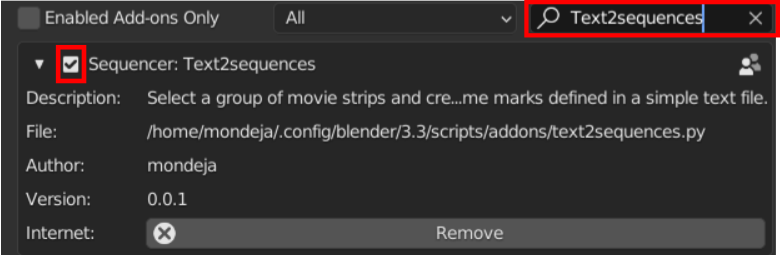
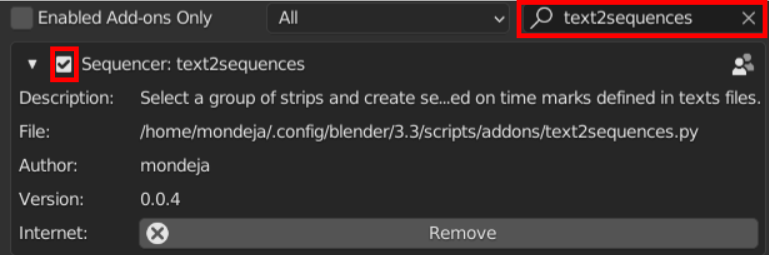
Change plugin name

diff --git a/text2sequences.py b/text2sequences.py
@@ -10,7 +10,7 @@ import bpy_extras
 
 
 bl_info = {
-    "name": "Text2sequences",
+    "name": "text2sequences",
     "description": (
         "Select a group of strips and create sequences based on time"
         " marks defined in texts files."
@@ -18,7 +18,7 @@ bl_info = {
     "author": "mondeja",
     "license": "BSD-3-Clause",
     "category": "Sequencer",
-    "version": (0, 0, 4),
+    "version": (0, 0, 5),
     "blender": (3, 3, 0),
     "support": "COMMUNITY",
 }

diff --git a/README.md b/README.md
@@ -4,10 +4,10 @@ Plugin add-on to select a group of strips and create sequences based on time mar
 
 ## Download
 
-Download the addon using [the next link](https://github.com/mondeja/blender-text2sequences/releases/download/v0.0.4/text2sequences.py):
+Download the addon using [the next link](https://github.com/mondeja/blender-text2sequences/releases/download/v0.0.5/text2sequences.py):
 
 ```
-https://github.com/mondeja/blender-text2sequences/releases/download/v0.0.4/text2sequences.py
+https://github.com/mondeja/blender-text2sequences/releases/download/v0.0.5/text2sequences.py
 ```
 
 ## Install
@@ -19,7 +19,7 @@ downloaded file:
   <img src="images/install-button.png">
 </p>
 
-Search for `Text2sequences` in the search bar and enable the addon marking the
+Search for `text2sequences` in the search bar and enable the addon marking the
 top-left checkbox:
 
 <p align="center">
